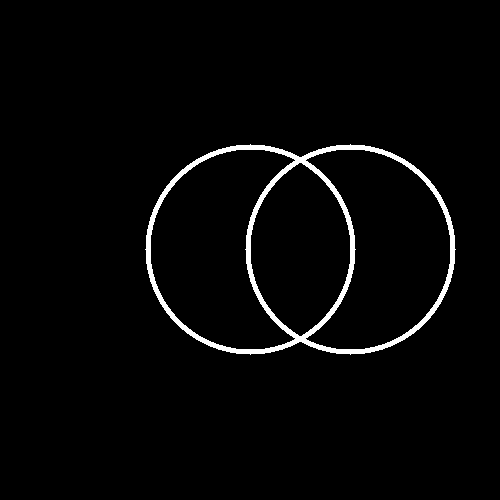
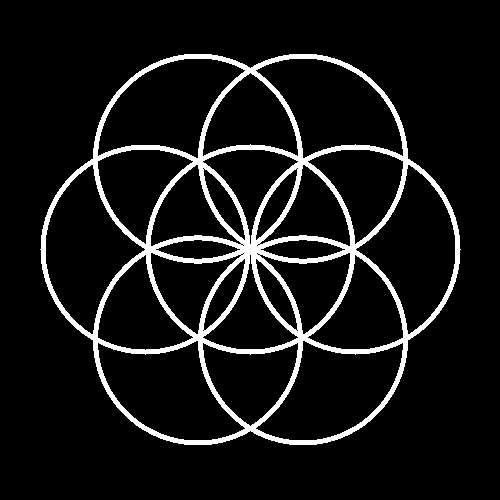
Update rosace

diff --git a/src/main.cpp b/src/main.cpp
@@ -194,14 +194,12 @@ void disk(sil::Image& image)
     }
 }
 
-void circle(sil::Image& image, float centreX, float centreY)
+void circle(sil::Image& image, float centreX, float centreY,int rayonint = 100,
+    int rayonext = 105)
 {
     int width = image.width();
     int height = image.height();
 
-
-    int rayonint = 100;
-    int rayonext = 105;
     for (int x{0}; x < width; x++){
     for (int y{0}; y < height; y++)
     {
@@ -215,6 +213,8 @@ void circle(sil::Image& image, float centreX, float centreY)
             
     }
     }
+
+    
 }
 
 void disk_0(sil::Image& image)
@@ -269,13 +269,24 @@ void rosace(sil::Image& image)
 {
     int width = image.width();
     int height = image.height();
-
+    int rayonint = 100;
+    int rayonext = 105;
     float centreX = width / 2.f;
     float centreY = height / 2.f;
 
     circle(image, centreX, centreY);
 
-    circle(image, centreX + 100, centreY);
+    float offset = rayonext;
+
+    for (int i = 0; i < 6; i++) {
+            float angle = i * M_PI / 3.0f; 
+            float newCenterX = centreX + offset * std::cos(angle);
+            float newCenterY = centreY + offset * std::sin(angle);
+
+            
+            circle(image, newCenterX, newCenterY);
+        }
+
 
 
 }
